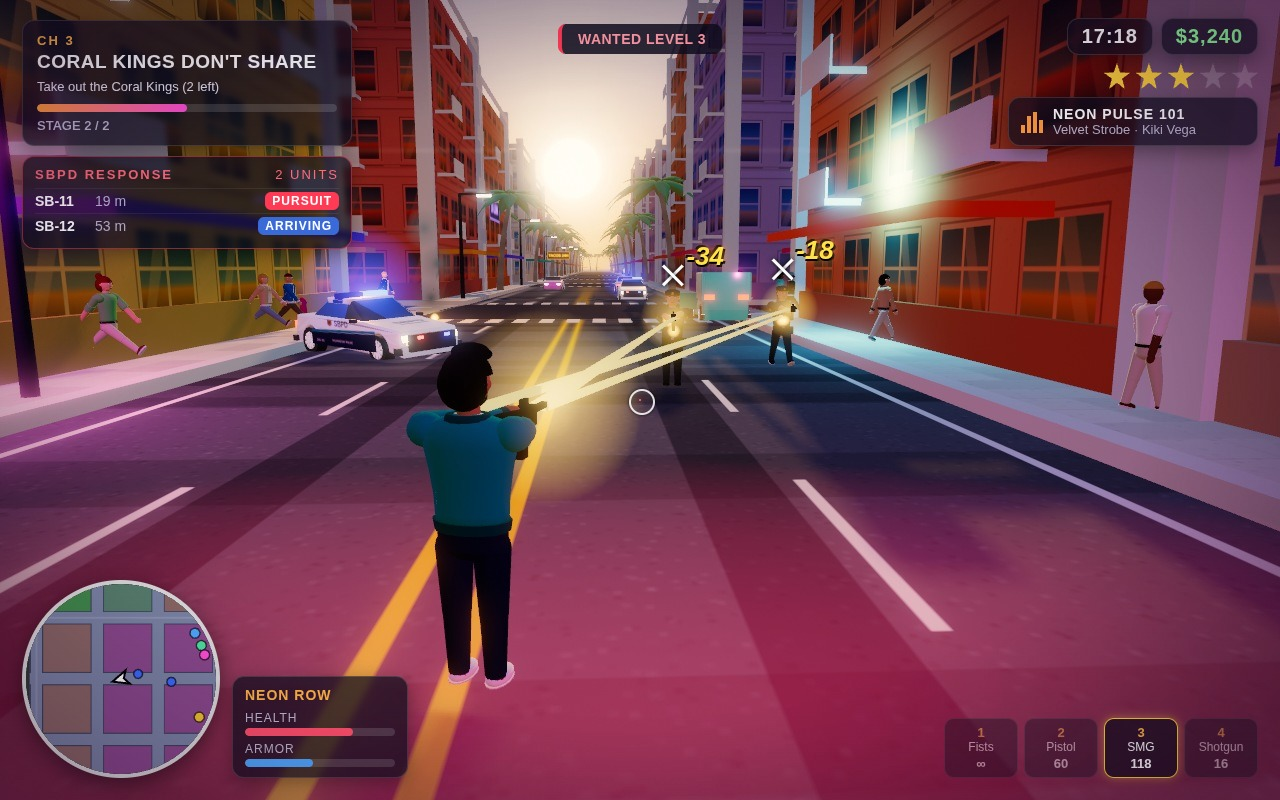
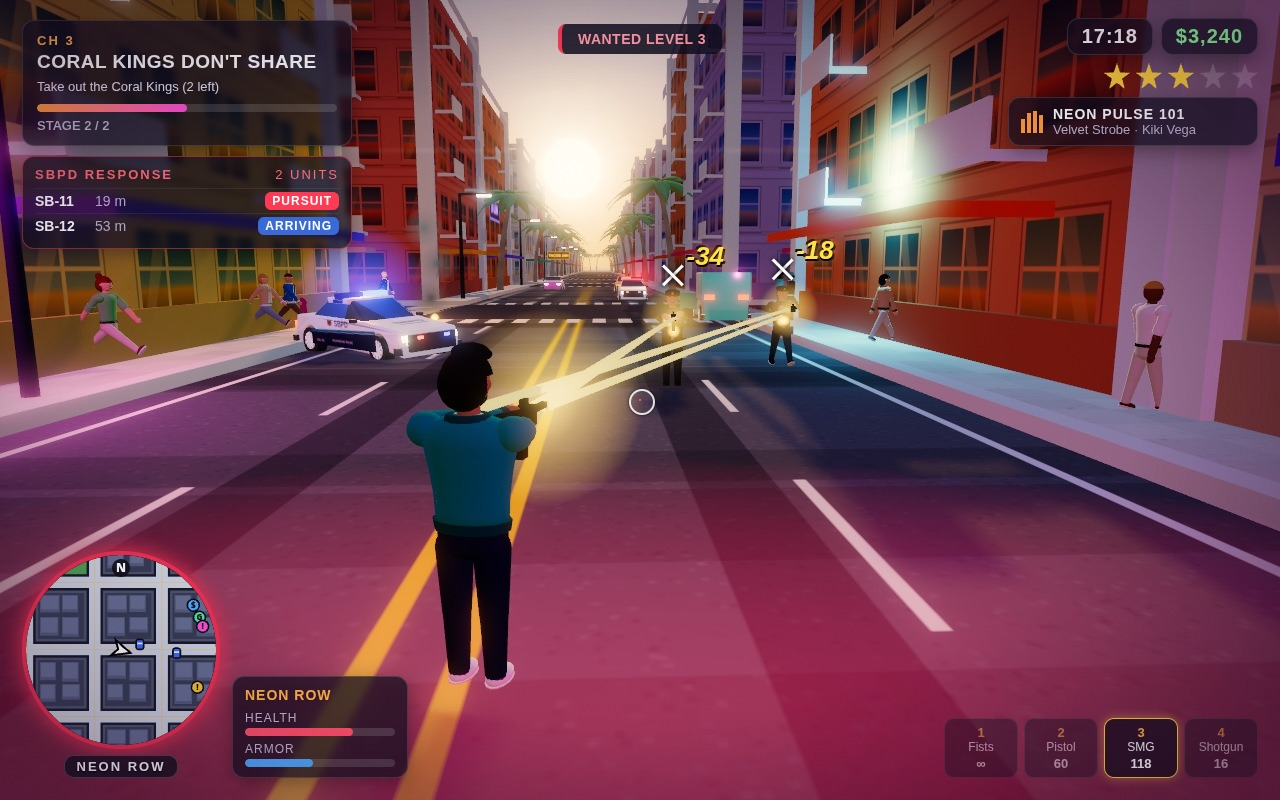
Cover: saturated VELOCE GT with rim light, closer chase cam, oncoming traffic, more pedestrians, HUD waypoint marker

Changed region(s): [[0.0, 0.6562, 0.1875, 1.0], [0.0938, 0.4688, 0.2812, 0.5312], [0.4688, 0.3125, 0.5312, 0.375]]

diff --git a/game/src/shots/screenshotScenes.js b/game/src/shots/screenshotScenes.js
@@ -19,6 +19,7 @@ import { rig } from '../camera/cameraRig.js';
 import { removeCar } from '../vehicles/carPhysics.js';
 import { removeActor } from '../characters/pedestrianSystem.js';
 import { seedSave } from '../save/saveGame.js';
+import { addMarker } from '../missions/markers.js';
 
 function clearTraffic() { for (const c of G.cars.slice()) if (c.kind === 'traffic' || c.kind === 'parked') removeCar(c); for (const a of G.actors.slice()) removeActor(a); }
 function fakeMission(idx, stageIdx, text, timer) {
@@ -30,22 +31,23 @@ function typed() { dlg.t = 99; }
 // Cover: eastbound down the palm boulevard toward the sea and the setting sun, three SBPD cruisers closing in.
 function chase(api) {
   const p = G.p, z0 = lineCoord(3); clearTraffic(); G.mode = 'play'; G.clock = 17.45; G.money = 48250; G.xp = 520; G.radio = 1; api.showHud(true);
-  const car = createCar('veloce', -8, z0 + LANE, Math.PI / 2, 'parked', 0xe8203c); enterCar(car); car.speed = 41.5; car.vx = 41.5; car.vz = 0; car.input.throttle = 1; p.x = car.x; p.z = car.z; p.hp = 86; p.armor = 60; p.weapon = 2; p.owned = { 0: 1, 1: 1, 2: 1, 3: 1 }; p.ammo = { pistol: 84, smg: 210, shotgun: 24 };
+  const car = createCar('veloce', -8, z0 + LANE, Math.PI / 2, 'parked', 0xd01020); enterCar(car); car.speed = 41.5; car.vx = 41.5; car.vz = 0; car.input.throttle = 1; p.x = car.x; p.z = car.z; p.hp = 86; p.armor = 60; p.weapon = 2; p.owned = { 0: 1, 1: 1, 2: 1, 3: 1 }; p.ammo = { pistol: 84, smg: 210, shotgun: 24 };
   const cop = (x, z, h, vx, ai) => { const c = spawnCop(x, z, h, ai); c.vx = vx; c.speed = Math.abs(vx); c.ai = ai; c.heading = h; return c; };
   cop(-8.9, z0 + LANE - 2.25, Math.PI / 2 + 0.1, 40.5, 'RAMMING'); cop(-7.4, z0 + LANE + 3.1, Math.PI / 2 - 0.12, 40, 'PURSUIT'); cop(16, z0 - 1.2, -Math.PI / 2 + 0.35, 30, 'PURSUIT');
   cop(64, z0 - LANE, -Math.PI / 2, 26, 'ARRIVING'); cop(104, z0 - LANE - 0.2, -Math.PI / 2, 24, 'ARRIVING');
   const tc = (key, x, dir, col) => { const c = placeTraffic('x', 3, x, dir, key, 'traffic', col); c.nav.spd = 11; return c; };
-  tc('hawke', 30, 1, 0x222831); tc('tupelo', 82, 1, 0xf6c21c); tc('marlin', 24, -1, 0x2f7fd8); tc('cadia', 58, -1, 0x2fb89a); tc('rumble', 8, -1, 0x8fd3c8); tc('pico', 46, 1, 0xff8a3d); tc('marlin', 120, -1, 0xf0f0f0);
-  [[12, -1, -1], [26, -1, 1], [42, -1, -1], [6, 1, 1], [20, 1, -1], [40, 1, 1], [58, -1, -1], [-4, 1, -1], [76, 1, -1], [-2, -1, 1], [64, 1, 1]].forEach(([x, s, d], i) => { const a = spawnPed('x', 3, x, s, d); if (i % 3 === 0) { a.scared = 6; a.nav.dir = d; } animateWalk(a.mesh, i * 1.3, 0.6, false); a.mesh.position.y = 0.25; a.y = 0.25; });
+  tc('hawke', 30, 1, 0x222831); tc('tupelo', 82, 1, 0xf6c21c); tc('marlin', 24, -1, 0x2f7fd8); tc('cadia', 58, -1, 0x2fb89a); tc('rumble', 8, -1, 0x8fd3c8); tc('pico', 46, 1, 0xff8a3d); tc('marlin', 120, -1, 0xf0f0f0); tc('hawke', 36, -1, 0xe9c46a); tc('pico', 72, -1, 0xc3a6e0); tc('tupelo', 96, -1, 0xf6c21c);
+  [[12, -1, -1], [26, -1, 1], [42, -1, -1], [6, 1, 1], [20, 1, -1], [40, 1, 1], [58, -1, -1], [-4, 1, -1], [76, 1, -1], [-2, -1, 1], [64, 1, 1], [2, 1, 1], [9, -1, -1], [15, 1, -1], [30, 1, 1]].forEach(([x, s, d], i) => { const a = spawnPed('x', 3, x, s, d); if (i % 3 === 0) { a.scared = 6; a.nav.dir = d; } animateWalk(a.mesh, i * 1.3, 0.6, false); a.mesh.position.y = 0.25; a.y = 0.25; });
   G.heli = createHeli(40, z0 - 7); G.heli.y = 18; G.heli.mesh.position.set(G.heli.x, 18, G.heli.z); G.heli.mesh.rotation.set(0.1, -Math.PI / 2 - 0.4, -0.14); G.heli.rotor.rotation.y = 0.7; placeCone(G.heli, car.x + 1, car.z); G.shotLock = true;
-  setStars(4); G.wanted.heat = 4.3; fakeMission(5, 3, 'Escape the SBPD, then reach the Alder Hills safehouse', 87);
+  addMarker({ x: 150, z: z0 + LANE, kind: 'obj', label: 'Safehouse', color: 0xffd23c, auto: false }); setStars(4); G.wanted.heat = 4.3; fakeMission(5, 3, 'Escape the SBPD, then reach the Alder Hills safehouse', 87);
   say([{ who: 'sol', text: 'Left at the next light, Nico! I can hear that chopper from here. Stay off the brakes!' }]); typed();
   for (const c of G.cars) { c.mesh.position.set(c.x, 0, c.z); c.mesh.rotation.y = c.heading; }
   updateSirens(0.1);
   car.mesh.rotation.z = -0.025; const cz = z0 + LANE - 1.1;
   smoke(-11.5, 1, cz - 0.6, 0x8a8580); smoke(-12.6, 1.3, cz - 0.9, 0x9a948c); sparks(-7.6, 0.7, cz, 34); sparks(-8.4, 0.55, cz, 18); sparks(-9.5, 0.4, cz - 0.4, 10);
   particle({ x: -7.8, y: 0.75, z: cz, life: 1, size: 3.2, color: 0xffc070, add: true });
-  rig.mode = 'auto'; rig.yaw = Math.PI / 2; G.shotCam = { d: 10.5, h: 2.7, ly: 2.3, ahead: 30, fov: 60, roll: 0.035 };
+  rig.mode = 'auto'; rig.yaw = Math.PI / 2; G.shotCam = { d: 8.6, h: 2.45, ly: 2.0, ahead: 30, fov: 58, roll: 0.035 };
+  const rim = new THREE.PointLight(0xffe0c0, 60, 14, 1.6); rim.position.set(car.x - 3.5, 3.2, car.z - 2.5); G.scene.add(rim);
   finish(api); }
 function onfoot(api) {
   const p = G.p, z0 = lineCoord(7); clearTraffic(); G.mode = 'play'; G.clock = 17.3; G.time = 0.1; G.money = 3240; G.xp = 720; G.radio = 2; api.showHud(true); rig.mode = 'auto';

diff --git a/game/src/ui/hud.js b/game/src/ui/hud.js
@@ -7,7 +7,18 @@ import { radioInfo } from '../audio/radioStations.js';
 import { dlg } from '../story/dialogue.js';
 import { CAST } from '../story/characters.js';
 import { drawPortrait } from './portraits.js';
-import { drawMinimap } from './minimap.js';
+import { drawMinimap, gpsTarget } from './minimap.js';
+
+const wpV = { x: 0, y: 0, z: 0 };
+// Screen-space waypoint diamond with distance over the GPS target (clamped to the screen edges).
+function updateWaypoint() {
+  const t = G.mode === 'play' ? gpsTarget() : null, el = $('waypoint'); if (!t) { el.style.display = 'none'; return; }
+  const v = G.camera.position.clone().set(t.x, 5, t.z).project(G.camera), behind = v.z > 1; let x = (v.x * 0.5 + 0.5) * innerWidth, y = (0.5 - v.y * 0.5) * innerHeight;
+  if (behind) { x = innerWidth - x; y = innerHeight - 90; }
+  x = Math.max(40, Math.min(innerWidth - 40, x)); y = Math.max(70, Math.min(innerHeight - 90, y));
+  el.style.display = 'block'; el.style.transform = `translate(${x.toFixed(0)}px, ${y.toFixed(0)}px)`; el.classList.toggle('start', t.kind === 'start');
+  set('wpDist', `${Math.round(Math.hypot(t.x - G.p.x, t.z - G.p.z))} m`);
+}
 
 const $ = (id) => document.getElementById(id); let lastWho = null, polT = 0, cache = {};
 const set = (id, v) => { if (cache[id] !== v) { cache[id] = v; $(id).textContent = v; } };
@@ -39,5 +50,6 @@ export function updateHud(dt) {
   const tl = G.toasts.map((t) => `<div class="toast ${t.kind}">${t.text}</div>`).join(''); if (cache.tl !== tl) { cache.tl = tl; $('toasts').innerHTML = tl; }
   for (const t of G.toasts) t.t -= dt; G.toasts = G.toasts.filter((t) => t.t > 0);
   G.hudRate += dt; if (G.hudRate > 0.04) { G.hudRate = 0; drawMinimap($('minimap')); }
+  updateWaypoint();
 }
 export const showHud = (on) => show('hud', on);

diff --git a/game/styles/hud.css b/game/styles/hud.css
@@ -55,3 +55,7 @@
 #speedfx { position: fixed; inset: 0; pointer-events: none; z-index: 1; opacity: 0; mix-blend-mode: screen;
   background: repeating-conic-gradient(from 0deg at 50% 44%, transparent 0deg 1.3deg, rgba(255,235,220,0.5) 1.5deg 1.7deg, transparent 1.9deg 3.9deg), repeating-conic-gradient(from 1deg at 50% 44%, transparent 0deg 2.6deg, rgba(255,160,200,0.45) 2.8deg 3.1deg, transparent 3.3deg 7.1deg);
   -webkit-mask-image: radial-gradient(ellipse 70% 75% at 50% 44%, transparent 55%, #000 100%); mask-image: radial-gradient(ellipse 70% 75% at 50% 44%, transparent 55%, #000 100%); }
+#waypoint { position: absolute; left: 0; top: 0; display: none; pointer-events: none; text-align: center; width: 0; }
+#waypoint i { display: block; width: 22px; height: 22px; margin: -11px 0 0 -11px; background: #ff4fd8; border: 3px solid #fff; transform: rotate(45deg); box-shadow: 0 0 14px #ff4fd8, 0 2px 6px rgba(0, 0, 0, 0.6); }
+#waypoint span { display: block; width: 80px; margin: 8px 0 0 -40px; font-size: 13px; font-weight: 900; color: #fff; text-shadow: 0 1px 3px #000, 0 0 6px #000; }
+#waypoint.start i { background: #ffd23c; box-shadow: 0 0 14px #ffb000, 0 2px 6px rgba(0, 0, 0, 0.6); }

diff --git a/game/src/ui/minimap.js b/game/src/ui/minimap.js
@@ -5,6 +5,7 @@ import { N, RW, HALF, SEA_X, MAP_BOUNDS as B, lineCoord } from '../core/config.j
 import { blocks, nearestLine, districtAt } from '../world/cityLayout.js';
 import { copCars } from '../police/policeDispatch.js';
 import { missionTargets } from '../missions/missionRunner.js';
+import { rig } from '../camera/cameraRig.js';
 
 export const Q = 2; let bg;
 export const hex = (n) => '#' + n.toString(16).padStart(6, '0');
@@ -68,7 +69,7 @@ export function gpsRoute(p, t) {
   return pts;
 }
 export function drawMinimap(canvas) {
-  const g = canvas.getContext('2d'), s = canvas.width, c = s / 2, p = G.p, k = 1.05, cd = G.camera.getWorldDirection(new G.camera.position.constructor()), yaw = Math.atan2(cd.x, cd.z);
+  const g = canvas.getContext('2d'), s = canvas.width, c = s / 2, p = G.p, k = 1.05, yaw = rig.yaw;
   const th = Math.PI - yaw; g.clearRect(0, 0, s, s); g.save(); g.beginPath(); g.arc(c, c, c, 0, 7); g.clip(); g.fillStyle = '#10142a'; g.fillRect(0, 0, s, s);
   g.translate(c, c); g.rotate(-th); g.scale(k, k); g.translate(-p.x, -p.z); const b = mapBackground(); g.drawImage(b, B.x0, B.z0, b.width / Q, b.height / Q);
   const t = gpsTarget();

diff --git a/game/index.html b/game/index.html
@@ -22,6 +22,7 @@
     <div id="stars"><i></i><i></i><i></i><i></i><i></i></div>
     <div id="radioCard" class="card"><div class="eq"><i></i><i></i><i></i><i></i></div><div><div class="rname" id="rName"></div><div class="rtrack" id="rTrack"></div></div></div>
   </div>
+  <div id="waypoint"><i></i><span id="wpDist"></span></div>
   <div id="bottomLeft">
     <div id="mmCol"><div id="mapWrap"><canvas id="minimap" width="190" height="190"></canvas></div><div id="mmDistrict"></div></div>
     <div id="vitals" class="card"><div id="district"></div><div class="vrow"><span>HEALTH</span><div class="bar hp"><i id="hpBar"></i></div></div><div class="vrow"><span>ARMOR</span><div class="bar ar"><i id="arBar"></i></div></div></div>
